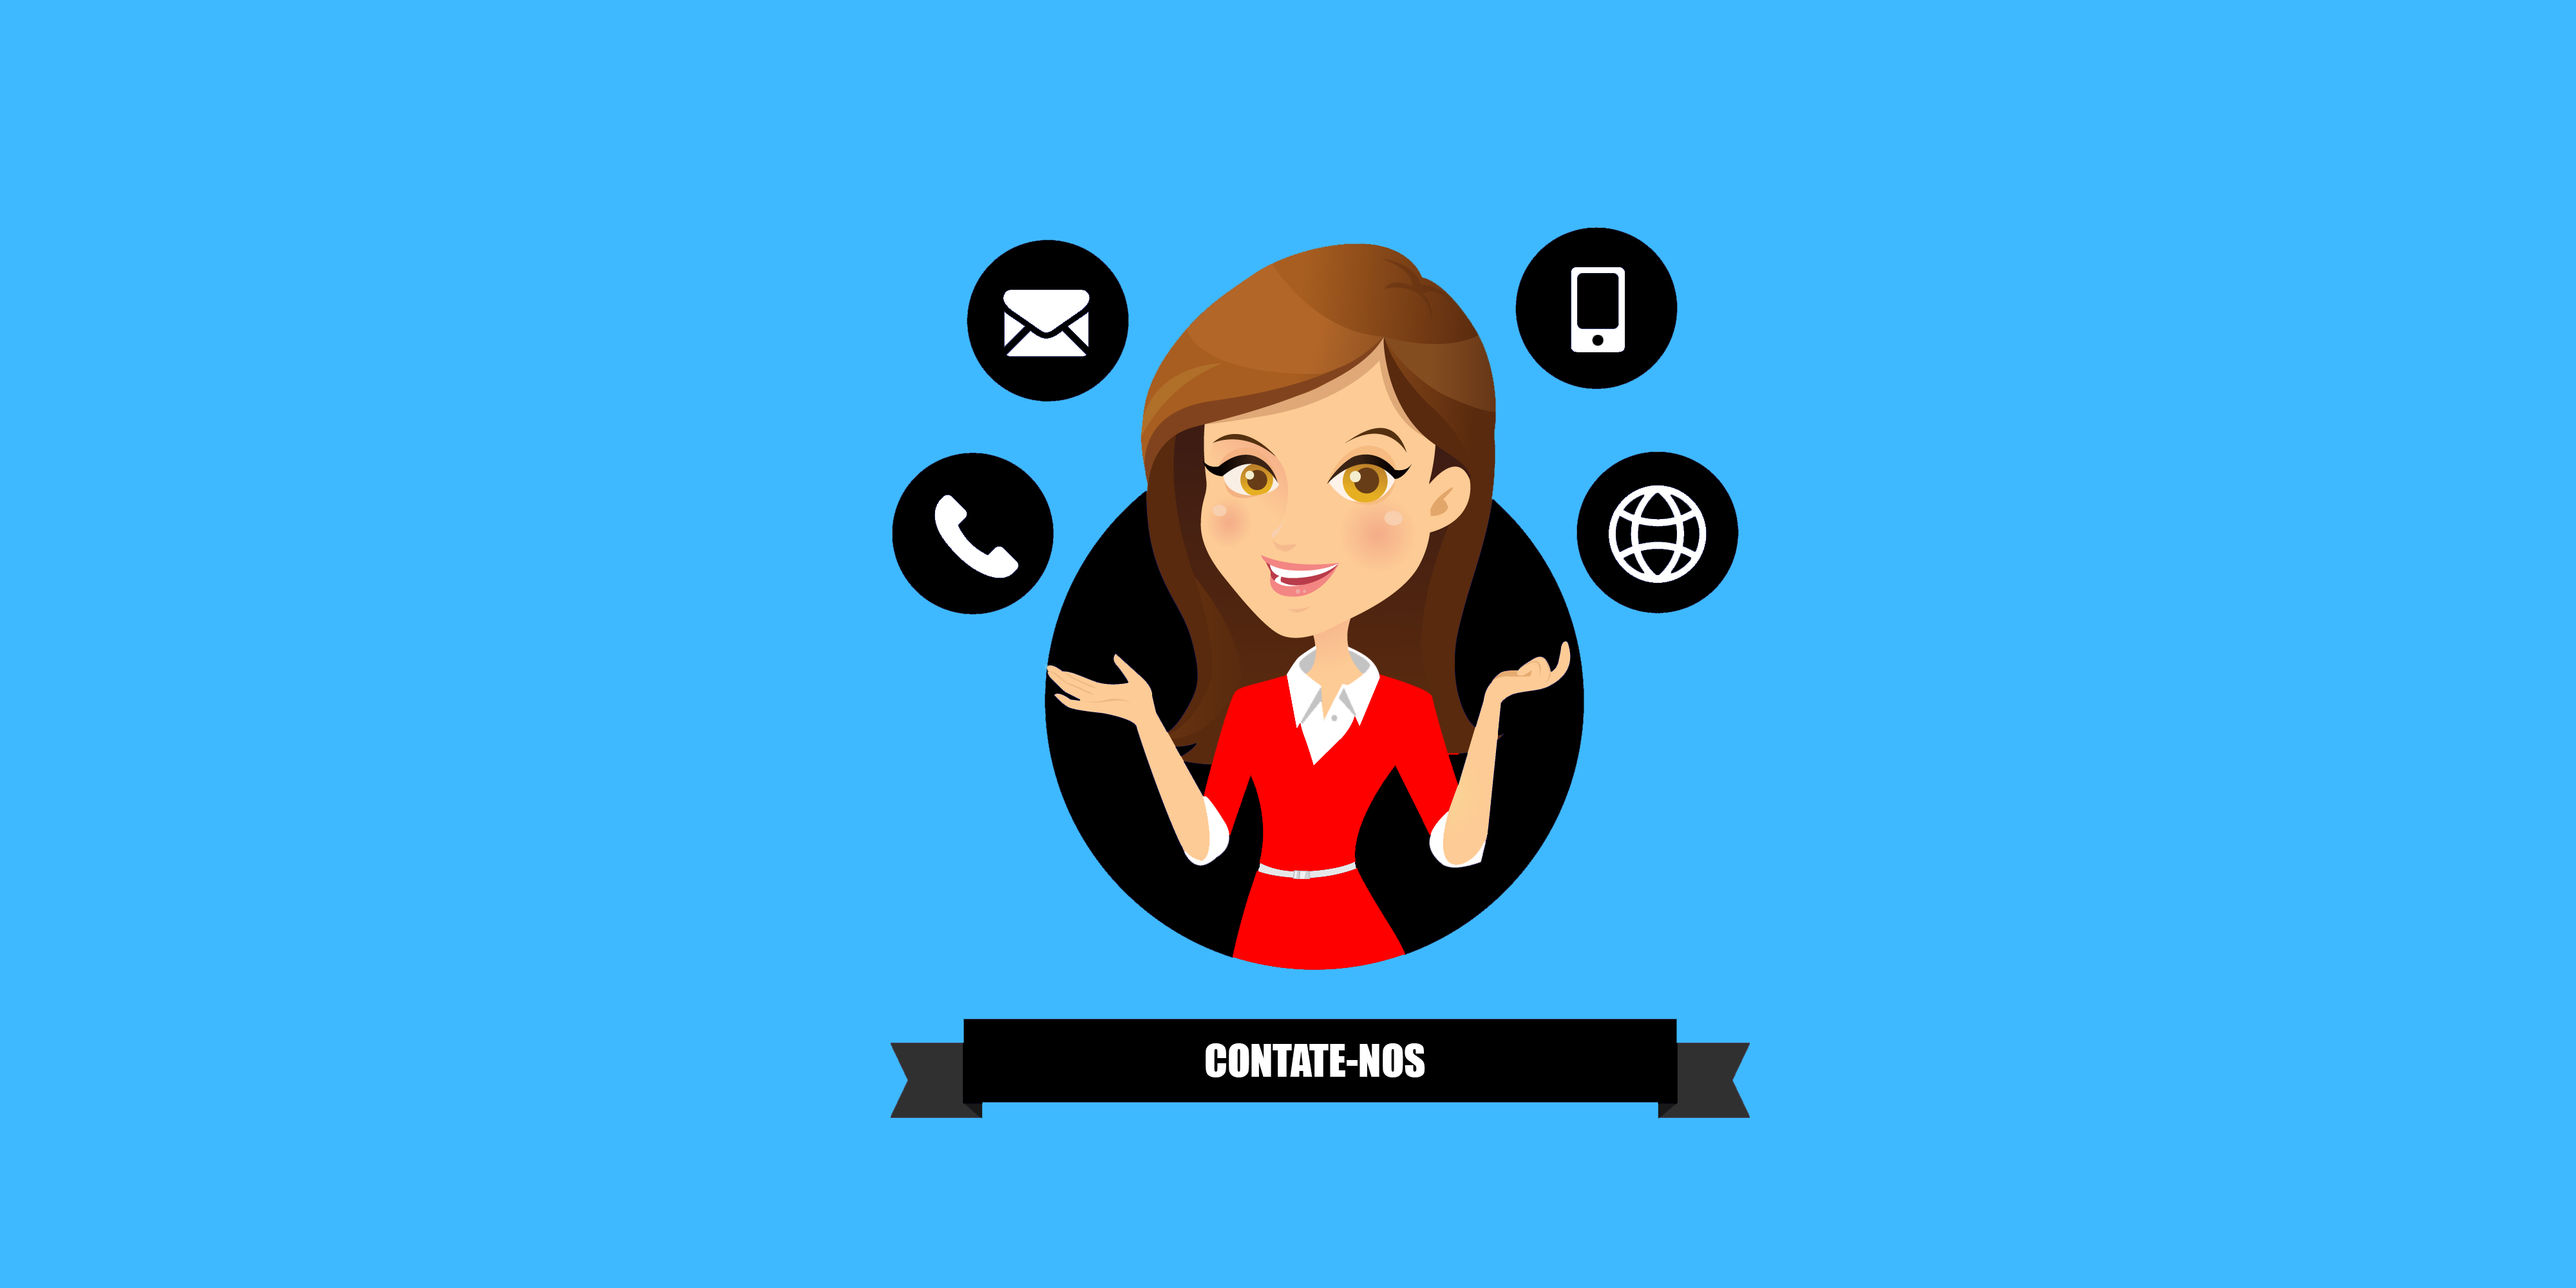
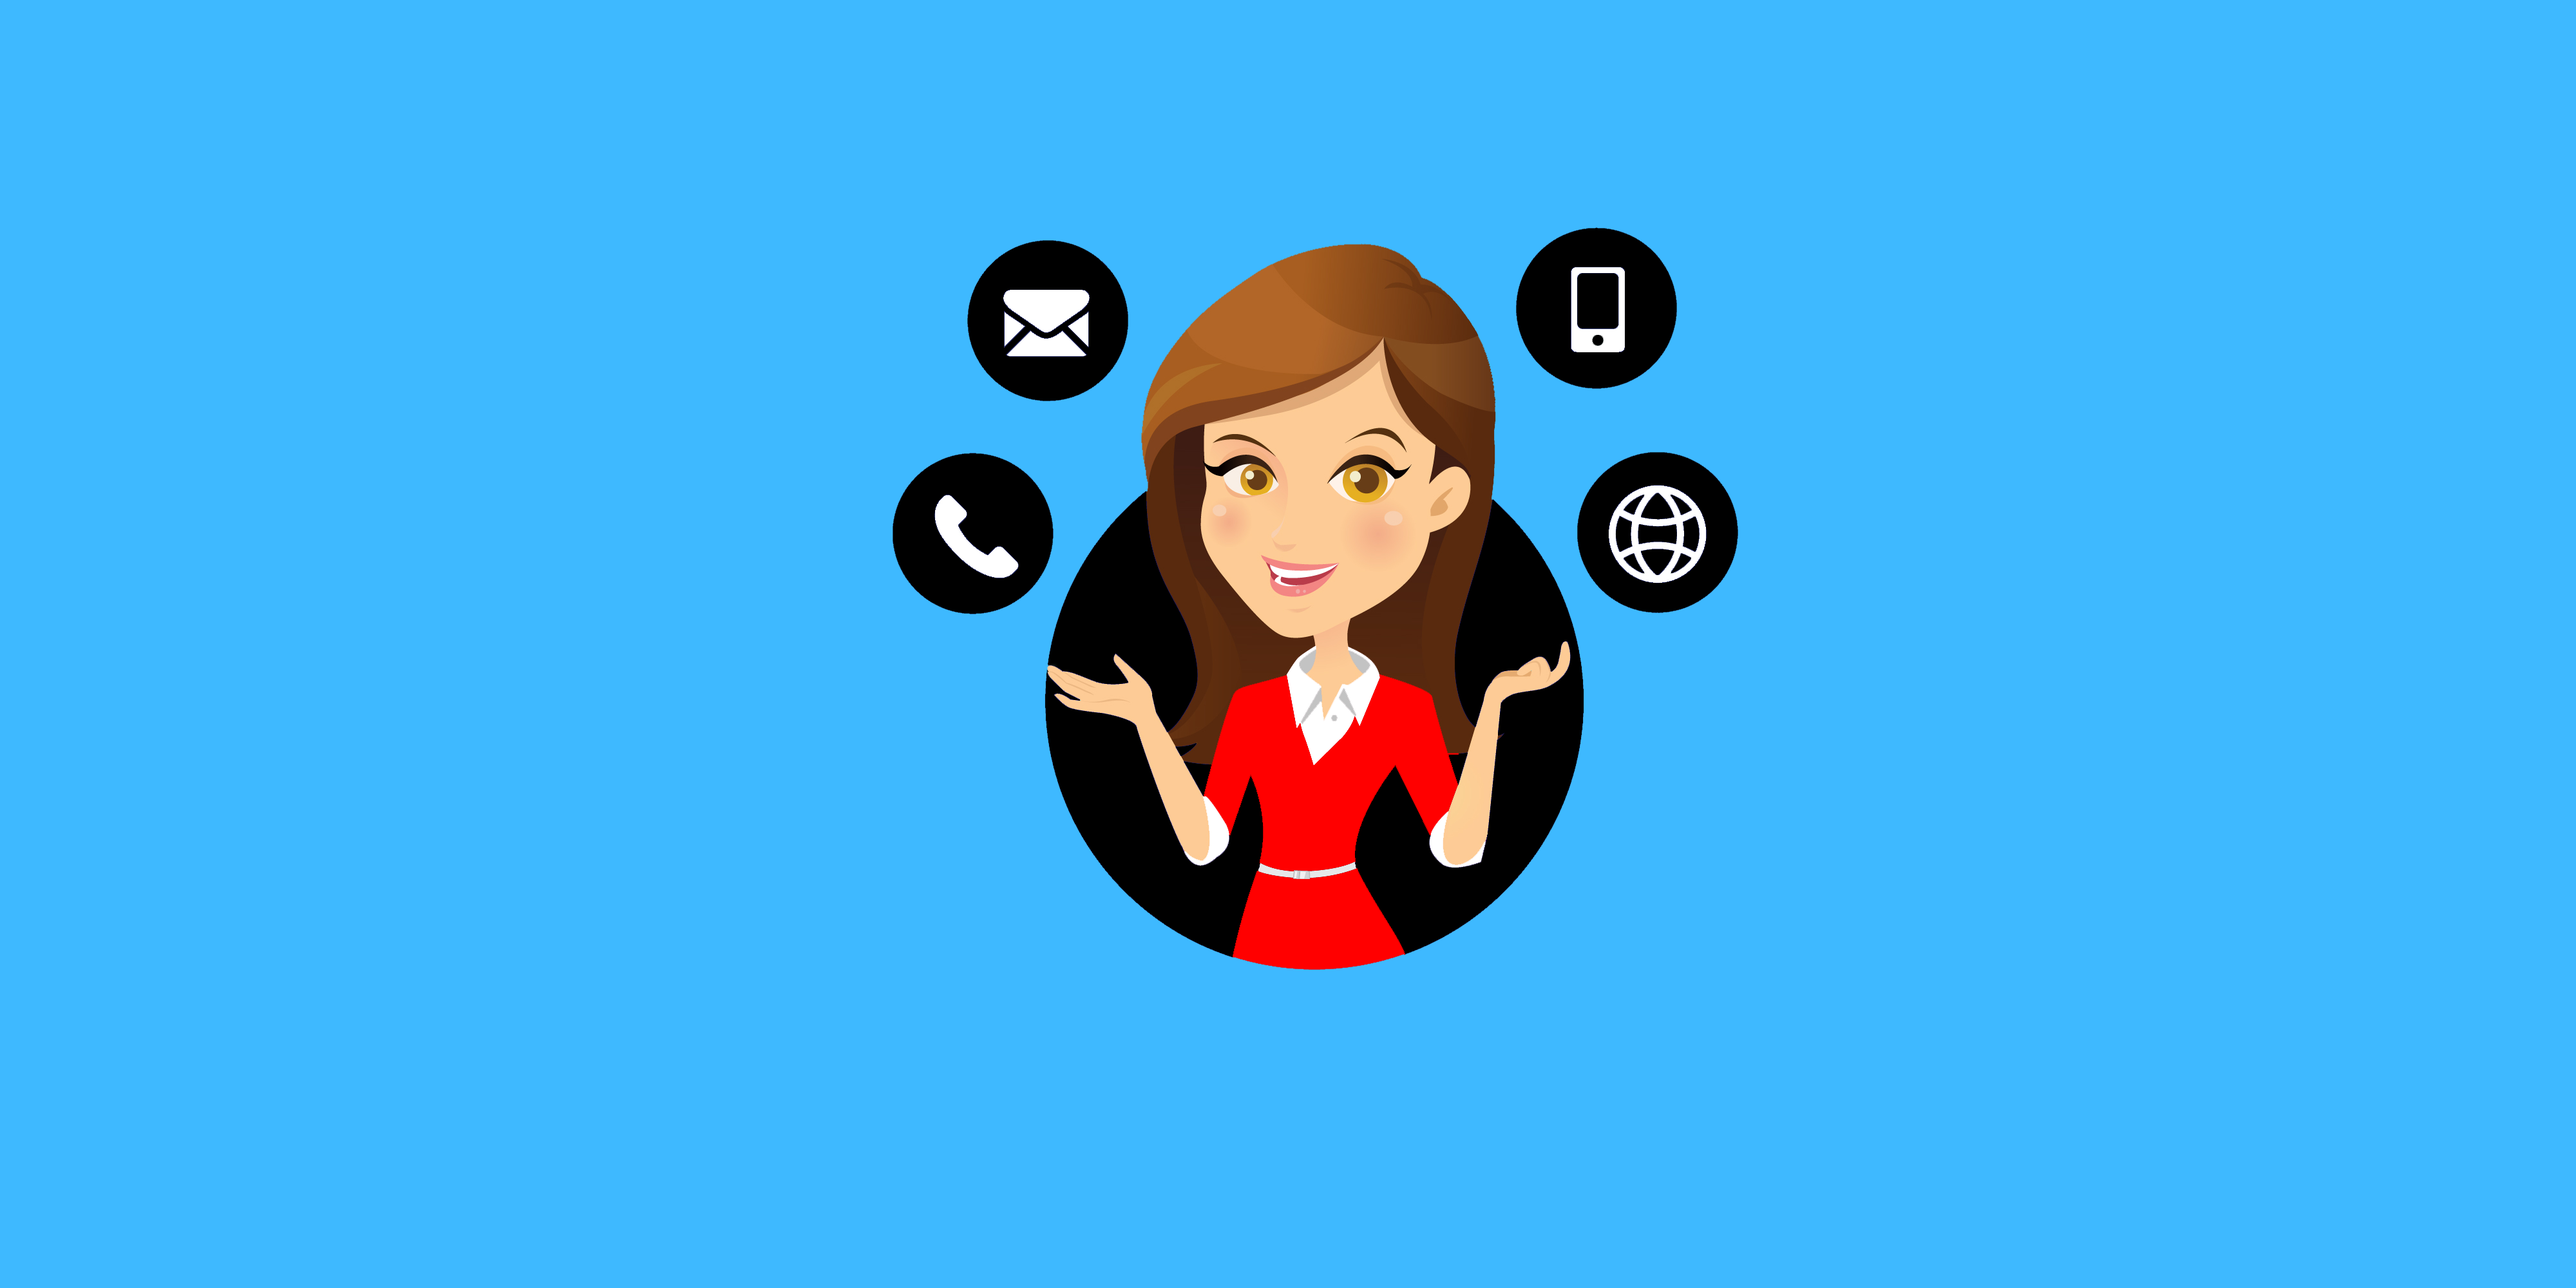
Ajustes header

Changed region(s): [[0.3438, 0.775, 0.6875, 0.868]]

diff --git a/css/contato.css b/css/contato.css
@@ -7,14 +7,50 @@
   Autor URI:  
 */
 
+/*------------------------------------------------
+Header
+-------------------------------------------------*/
+  :root {
+    --jumbotron-padding-y: 25rem;
+  }
 
-.contato .container-fluid.img{
-	background-color: rgb(62,185,255);
+  .jumbotron {
+    padding-top: var(--jumbotron-padding-y);
+  }
+  @media (min-width: 768px) {
+    .jumbotron {
+      padding-top: calc(var(--jumbotron-padding-y) * 0.9);
+    }
+  }
+
+  .jumbotron .container {
+    max-width: 60rem;
+  }
+
+  .bg-img {
+    background: url('../img/contato/contato.png') 50% 50% no-repeat; 
+    background-size:cover;
+    width: 100%;
+    height: 30em;
+    display: table;
+  }
+
+ /*-------------------------
+  Form
+ ---------------------------*/
+.contato .formulario-contato{
+	background-color: #efefef;
 }
+ /*-------------------------
+  SEÇÃO ENDEREÇO
+ ---------------------------*/
 .contato .endereco .container .row{
 	border-bottom: solid 3px silver;
 	border-top: solid 3px silver;
 }
+ /*-------------------------
+  FAQ
+ ---------------------------*/
 .contato .FAQ{
 	margin-top: 5px;
 	background-color: rgb(62,185,255);
@@ -24,12 +60,6 @@
 }
 .contato .FAQ .card-header{
 	background-color: #2d88bc;
-}
-.contato .formulario-contato{
-	background-color: #efefef;
-}
-.endereco .container address, .endereco .container h6{
-	margin-top: 1rem;
 }
 .contato .card .btn {
 	white-space: unset;

diff --git a/css/voluntario.css b/css/voluntario.css
@@ -11,15 +11,15 @@
 Header
 -------------------------------------------------*/
   :root {
-    --jumbotron-padding-y: 4rem;
+    --jumbotron-padding-y: 4.5rem;
   }
 
   .jumbotron {
     padding-top: var(--jumbotron-padding-y);
   }
-  @media (min-width: 768px) {
+  @media (min-width: 534px) {
     .jumbotron {
-      padding-top: calc(var(--jumbotron-padding-y) * 2.5);
+      padding-top: calc(var(--jumbotron-padding-y) * 2.2);
     }
   }
 
@@ -269,19 +269,21 @@ Ajustar em telas menores
 ------------------------------------------------------------*/
 @media (max-width: 767px) {
     ul.timeline:before {
-        left: 40px;
+        left: 20px;
     }
 
     ul.timeline > li > .timeline-panel {
-        width: calc(100% - 110px);
-        width: -moz-calc(100% - 110px);
-        width: -webkit-calc(100% - 110px);
+        width: calc(100% - 70px);
+        width: -moz-calc(100% - 70px);
+        width: -webkit-calc(100% - 70px);
     }
 
     ul.timeline > li > .timeline-badge {
-        left: -10px;
-        margin-left: 0;
-        top: 16px;
+      width: 60px;
+      height: 60px;
+      top: 35px;
+      left: -10px;
+      margin-left: 0;
     }
 
     ul.timeline > li > .timeline-panel {

diff --git a/Contato/index.php b/Contato/index.php
@@ -4,7 +4,7 @@
 		<meta charset="utf-8" />
 		<meta name="viewport" content="width=device-width, initial-scale=1, shrink-to-fit=no">
 		<title>Lar São Vicente de Paula::Sorocaba</title>
-		<meta name="description" content="Dúvidas Frequentes" />
+		<meta name="description" content="Formas de entrar em contato com o Lar São Vicente de Paulo e FAQ" />
 	    <meta name="author" content="Anne, Gregório, Luan, Tamires" />
 	    <meta name="keywords" content="Velhinhos, Lar São Vicente de Paula, Social, Idosos, Sorocaba, Maior idade" />
 		<link rel="icon" type="image/png" href="../favicon.png" />
@@ -19,9 +19,11 @@
 			HEADER
 			**************************************-->
 		<?php include('../includes/menu-principal.php');?>
-		<div class="container-fluid img">
-	      	<img class="img-fluid d-block mx-auto" src="../img/contato/contato.png" alt="Contate-nos">
-          </div>
+		<section class="jumbotron mb-0 text-center text-white bg-img">
+	        <div class="container">
+	          <h1 class="jumbotron-heading text-uppercase mb-0 shadow">Contate-nos</h1>
+	        </div>
+	    </section>
 
 		<!--**************************************
 			FORMULÁRIO CONTATO
@@ -92,7 +94,7 @@
           	<div class="container">
           		<div class="row">
           			<div class="col-12 col-sm-6">
-          				<address>
+          				<address class="my-3">
           					<i class="fas fa-map-marker"></i> Avenida Betânia, 1255 - Jardim Betânia<br>
           					&emsp; &thinsp; Sorocaba - SP &emsp; CEP: 18071-590<br>
           					<i class="fas fa-phone"></i> (15) 3313-2025 ou (15) 3313-9100<br>
@@ -100,7 +102,7 @@
           				</address>
           			</div>
           			<div class="col-12 col-sm-6">
-          				<h6>
+          				<h6 class="my-md-3 mb-3">
           					<i class="far fa-clock"></i> Horário de visitas <br>
           					&emsp; &thinsp; Segunda a Sábado <br>
           					&emsp; &thinsp; - 09h as 11h e <br>

diff --git a/voluntario/index.php b/voluntario/index.php
@@ -24,7 +24,7 @@
 	          <h1 class="jumbotron-heading text-uppercase mb-0 shadow">Seja um voluntário</h1>
 	          <p class="p-header mb-3 shadow">Você pode ajudar participando das atividades do <b> Lar</b>, nos nossos <b>Eventos Beneficentes, Bazares</b> ou como <b>Voluntário Ouvinte</b>.</p>
 	          <p>
-	            <a class="btn btn-success btn-lg" href="#" target="_blank">QUERO SER UM VOLUNTÁRIO</a>
+	            <a class="btn btn-success btn-lg" href="../contato/#contact">QUERO SER UM VOLUNTÁRIO</a>
 	          </p>
 	        </div>
 	    </section>
@@ -33,7 +33,7 @@
 			TIMELINE
 			**************************************-->
 	    <section class="bg-primary">
-			<div class="container-fluid pl-4 pr-4">
+			<div class="container-fluid px-md-4">
 			  <div class="page-header">
 				<h2 id="timeline" class="text-center text-white text-uppercase py-4">10 Motivos para ser um voluntário</h2>
 			  </div>
